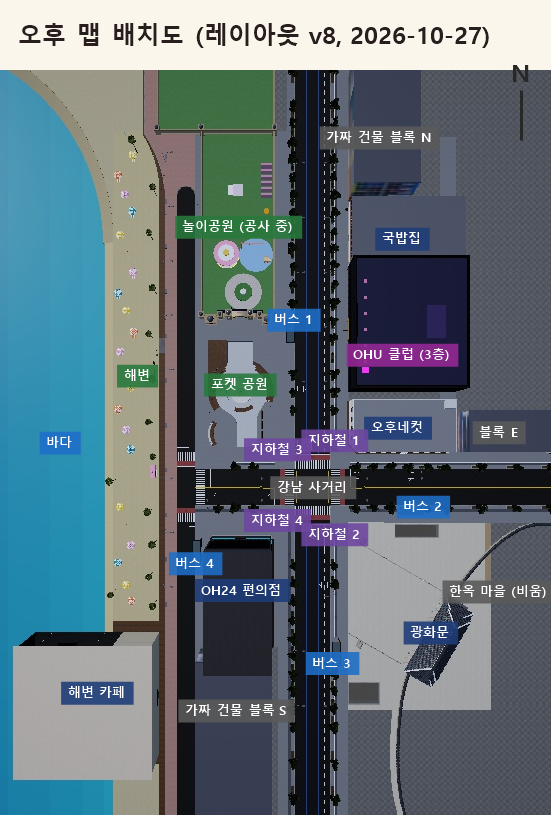
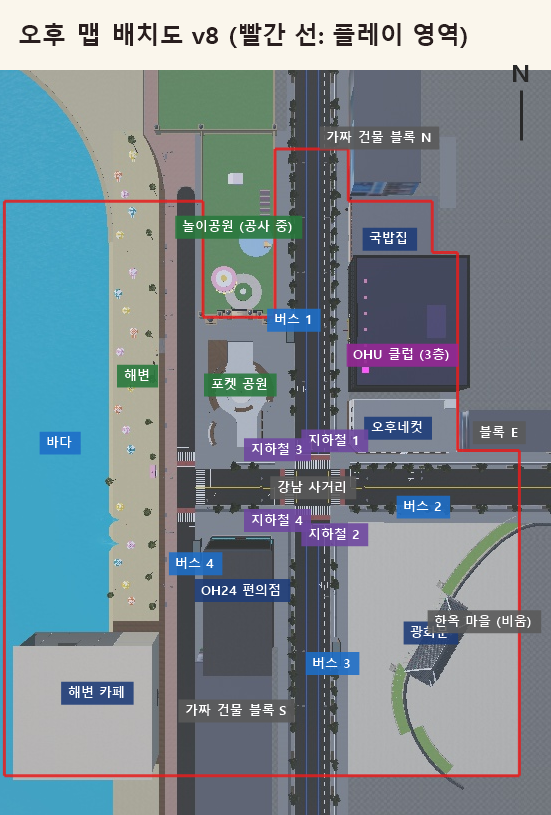
User map notes: play area, smaller 국밥집, park rides, gate wall curve with lawn and rails (D-368)

diff --git a/docs/06_LOG/DECISIONS.md b/docs/06_LOG/DECISIONS.md
@@ -692,3 +692,5 @@ D-365 — (2026-10-27, user saw the red carpet and photo wall during a rebuild) 
 D-366 — (2026-10-27, user: falling through the floor right inside the club) Cause: the graybox remembered a laid-out zone's position as a hand move and applied it again on each rebuild, so the club drifted 10.6 sideways and 3 up and a 6-wide gap opened behind the street door. Zones are never hand-moved (CLAUDE.md), so the graybox no longer remembers moves (KEEP_HAND_MOVES = false); the club is back in place. Found in the mobile 2P test (P1 tall 10.5, P2 small 3.1) and fixed: the three photo booth arches were shut (a cut union collides with its holes filled: the wall does not collide, invisible boxes in its shape do), a 6 × 1.5 hole at the pocket park plaza's south rim (ring rows used the row middle for the inner edge), the queue rope was collidable and tall avatars stood on it (now not collidable; the invisible 7-high block holds the line; applied at the next rebuild).
 
 D-367 — (2026-10-27, user) The user's own facade pictures for slots 4 and 7 (docs/04_ART/facades/facade_4_user.png, facade_7_user.png; webp converted to PNG, uploaded as 72400340486961 / 133905773347734); the shop blocks use them wherever those slots come round. The queue rope fix (D-366) is now in the place.
+
+D-368 — (2026-10-27, user map with notes) Play area = the user's red line: sea to x -415, beach to z -385, round the amusement park walls, north road to z -455 by shop block N, round the 국밥집, x 194 down to the east road, out to x 277 over the 광화문 yard and the empty village, south edge z 387. 국밥집 narrower on the >---< axis: x 48..158 (seven tables a row). Park rides spread over the park block (carousel -275, playground -332, flower tunnel -365, ferris wheel -414) instead of bunched at the gate. 광화문: the stone wall meets the middle of its side faces and curves gently away (south part bends back east to the edge, the straight 돌담길 run is gone); a lime lawn band runs along the wall's street side with a stone balustrade on its outer edge; the 해태 stand beside the balustrades at the gate's two ends; nothing right in front of the gate, people walk through; the yard paving reaches the play area edges; the square lawn beds and the hanok lane are gone. The lawn is Grass-material parts (a curved band of terrain grass cannot sit level with the paving: terrain snaps to 4-stud cells). Map plan with the red line: docs/02_WORLDS/images/map_plan_v8_2026-10-27.png.

diff --git a/docs/06_LOG/WORKLOG.md b/docs/06_LOG/WORKLOG.md
@@ -2334,3 +2334,13 @@ See ISSUE-MOBILE-001: 7 layout fixes, synced to Studio. The running test session
 - facade_4, facade_7을 사용자 이미지로 교체. 클럽 줄 수정도 맵에 적용.
 
 ![](images/2026-10-27/v8p_blockN_user_facades.jpg)
+
+### 사용자 배치도 메모 반영 (D-368)
+
+- 빨간 선대로 플레이 영역 경계, 국밥집 가로 축소(x 48..158), 놀이공원 안 놀이기구 블록 전체로 배치, 광화문 옆면 가운데에 돌담 연결·완만한 곡선, 담 앞 잔디 띠+난간, 해치는 난간 옆, 광화문 바로 앞은 비워 통행.
+
+| 광화문 앞 | 놀이공원 |
+|---|---|
+| ![](images/2026-10-27/v8q_gate_yard.jpg) | ![](images/2026-10-27/v8q_park_rides.jpg) |
+
+배치도: ![](images/2026-10-27/v8q_map_plan.png)

diff --git a/docs/06_LOG/PROGRESS_BY_DATE.md b/docs/06_LOG/PROGRESS_BY_DATE.md
@@ -164,3 +164,4 @@
 - VIP 계단 입구·옆벽·층계참 LED·VIP 화살표, 댄스봉 LED, 광화문 2/3, 맵 배치도(D-364).
 - 클럽 바닥 떨어짐 원인(재빌드 위치 밀림) 수정, 모바일 2인 테스트 통과(사진 부스 아치·공원 구멍·클럽 줄 수정)(D-366).
 - 사용자 가짜 건물 이미지 2장 적용(D-367).
+- 배치도 메모 반영: 플레이 영역 경계, 국밥집 축소, 놀이기구 배치, 광화문 돌담 곡선·잔디·난간·해치(D-368).
